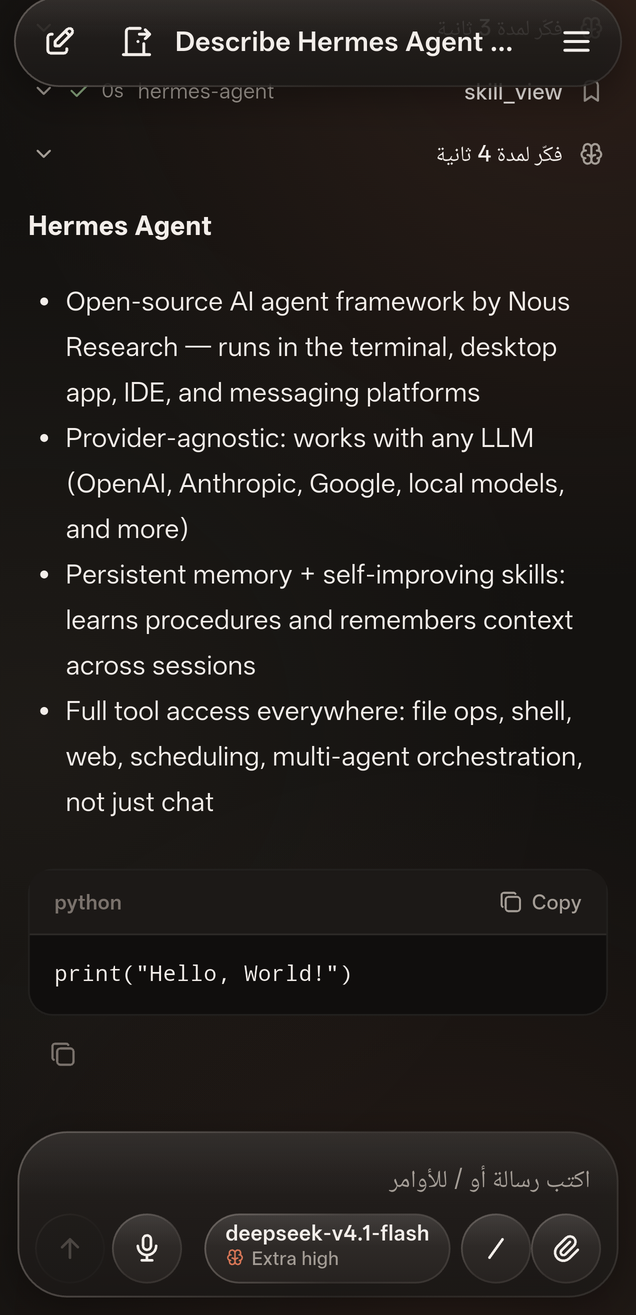
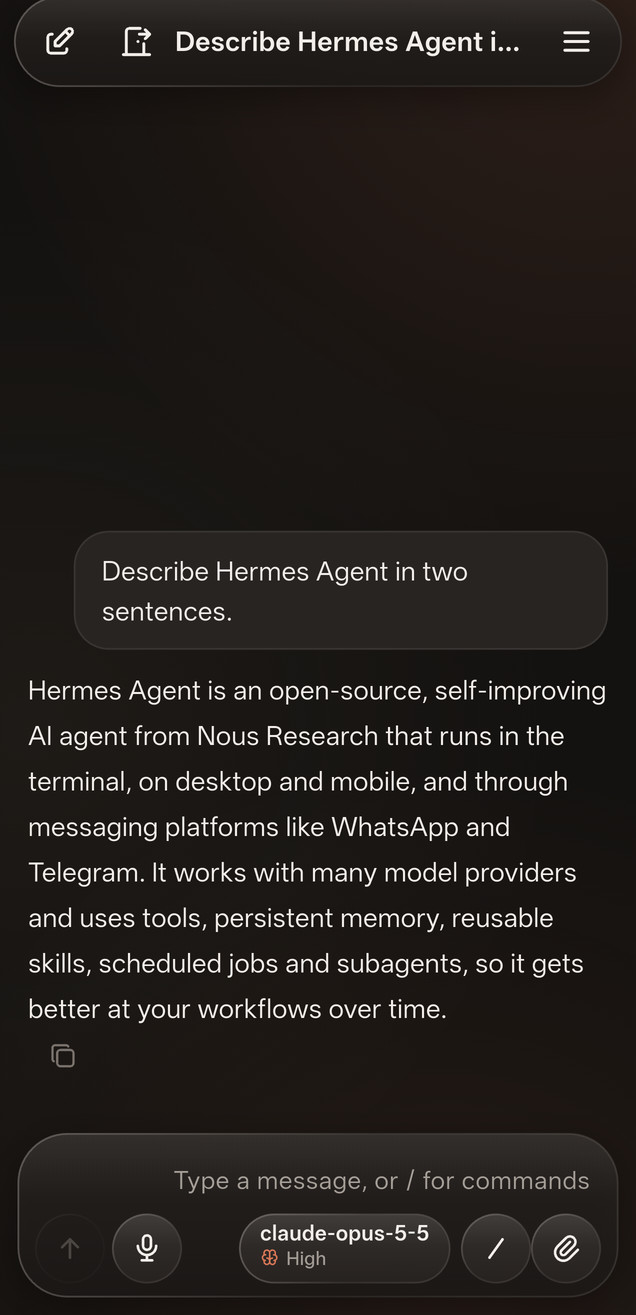
docs: refresh screenshots from the 1.4.0 build, add Bot View

diff --git a/README.md b/README.md
@@ -21,9 +21,10 @@
 
 ## Screenshots
 
-Real captures of the 1.3.0 Liquid Glass design from an Android phone, not mockups. Private session titles, the gateway host and the status bar are removed; original unredacted captures are not published. The app UI is English since 1.4.0 (layout still right-to-left); message content keeps its own direction, so Arabic renders right-to-left in chat. The captures below predate 1.4.0 and show the earlier Arabic UI. Repository documentation is in English.
+Real captures of the 1.4.0 build from an Android phone, not mockups. Private session titles, the gateway host and the status bar are removed; original unredacted captures are not published. The app UI is English since 1.4.0 (layout still right-to-left); message content keeps its own direction, so Arabic renders right-to-left in chat. Repository documentation is in English.
 
 <p>
+  <img src="docs/screenshots/bots.png" alt="Hermes Android Bot View: bot avatars with Working and Idle status, titles and last messages blurred" width="245">
   <img src="docs/screenshots/chat.png" alt="Hermes Agent Android chat with a real demo response under the floating glass top bar and composer" width="245">
   <img src="docs/screenshots/models.png" alt="Glass model sheet with English Thinking levels and the selected model checked" width="245">
   <img src="docs/screenshots/sessions.png" alt="Hermes Android session manager with private session titles blurred" width="245">
